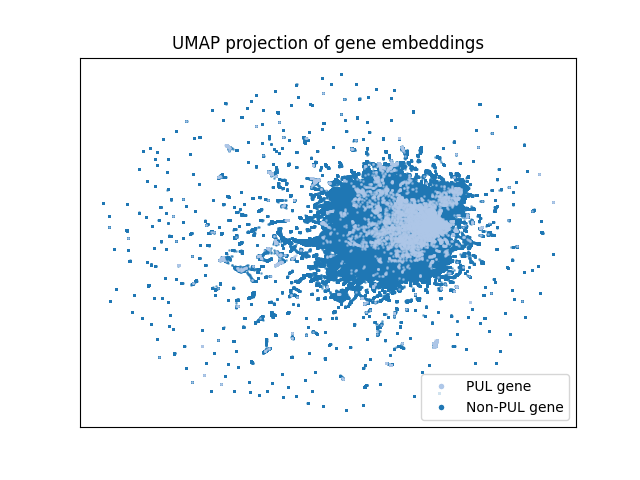
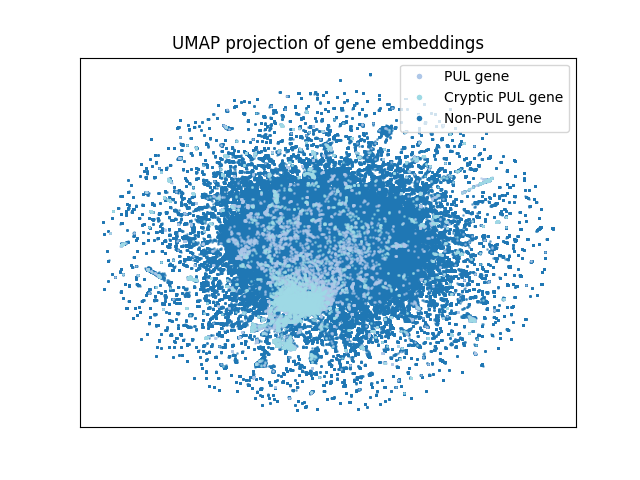
add more putative pul plots, adapt umap script

Changed region(s): [[0.1562, 0.125, 0.9062, 0.875], [0.625, 0.125, 0.6562, 0.1562]]

diff --git a/src/scripts/visualization/plot_predictions_in_genomes.py b/src/scripts/visualization/plot_predictions_in_genomes.py
@@ -71,10 +71,12 @@ def visualize_predictions_in_genome(evaluators, sequence_ids, threshold=None, mo
         plt.close()
 
 
-def visualize_genes(model_evaluator, sequence_id, start=0, end=10000):
+def visualize_genes(model_evaluators, sequence_id, start=0, end=10000, model_class="predictions"):
     cryptic_puls = polars.read_csv("src/data/data_collection/cryptic_puls_genes.tsv", separator='\t')
     # aggregate model predictions across folds
-    model_evaluator.aggregate_all_folds()
+    for model_evaluator in model_evaluators:
+        model_evaluator.aggregate_all_folds()
+    
     # genes from genbank file
     gb_file = f"src/data/genomes/genbank_genomes/{sequence_id}.gb"
     # write annotations df with cols: protein_id, start, end, product, note
@@ -103,85 +105,72 @@ def visualize_genes(model_evaluator, sequence_id, start=0, end=10000):
                 )
             features.append(graphic_feature)
 
-    fig, (ax1, ax2, ax3, ax4) = plt.subplots(
-        4, 1, figsize=(16, 6), sharex=True, gridspec_kw={"height_ratios": [8, 1, 1, 1]}
+    fig, axes = plt.subplots(
+        len(model_evaluators)+3, 1, figsize=(16, 6), sharex=True, gridspec_kw={"height_ratios": [8]+[1]*(len(model_evaluators)+2)}
     )
 
     # PLOT THE RECORD MAP
     graphic_record = GraphicRecord(sequence_length=length, features=features)
-    graphic_record.plot(ax=ax1, with_ruler=False, strand_in_label_threshold=4, max_label_length=55)
+    graphic_record.plot(ax=axes[0], with_ruler=False, strand_in_label_threshold=4, max_label_length=55)
 
-    # # PLOT THE PUL annotations
-    genes = (
-        model_evaluator.labeled_results[0]
-        .filter(
-            polars.col("sequence_id") == sequence_id,
-            polars.col("start") >= start,
-            polars.col("end") <= end,
+    # PLOT THE PUL annotations
+    genes_dfs = []
+    for model_evaluator in model_evaluators:
+        genes = (
+            model_evaluator.labeled_results[0]
+            .filter(
+                polars.col("sequence_id") == sequence_id,
+                polars.col("start") >= start,
+                polars.col("end") <= end,
+            )
+            .join(cryptic_puls.with_columns(polars.lit(True).alias("is_cryptic")), on="protein_id", how="left")
         )
-        .join(cryptic_puls.with_columns(polars.lit(True).alias("is_cryptic")), on="protein_id", how="left")
-    )
+        genes_dfs.append(genes)
 
-    predicted = []
     labels = []
     cryptic = []
     colors_tab10 = plt.cm.tab10.colors
     # top ax: called genes
-    for row in genes.iter_rows(named=True):
+    for row in genes_dfs[0].iter_rows(named=True):
         if row["is_PUL"]:
             labels.append((row["start"]-start, row["end"]-start, "Experimental"))
         # add cryptic puls
         if row["is_cryptic"]:
             cryptic.append((row["start"]-start, row["end"]-start, "Cryptic PULs"))
-        # add prediction probabilities
-        predicted.append((row["start"]-start, row["end"]-start, "Predicted", row["average_p"]))
 
-    for start_gene, end_gene, label, p in predicted:
-        ax2.fill_betweenx([0, 1], start_gene, end_gene, color=colors_tab10[0], alpha=min(0.1+p, 1))
     for start_gene, end_gene, label in labels:
-        ax3.fill_betweenx([0, 1], start_gene, end_gene, color=colors_tab10[1], alpha=1)
+        axes[-2].fill_betweenx([0, 1], start_gene, end_gene, color=colors_tab10[1], alpha=1)
     for start_gene, end_gene, label in cryptic:
-        ax4.fill_betweenx([0, 1], start_gene, end_gene, color=colors_tab10[2])
+        axes[-1].fill_betweenx([0, 1], start_gene, end_gene, color=colors_tab10[2])
 
 
-    ax2.set_ylim(0, 1)
-    ax3.set_ylim(0, 1)
-    ax4.set_ylim(0, 1)
-    ax2.set_yticks([0.45], [f"Predicted ({model_evaluator.model_name})"])
-    ax3.set_yticks([0.45], ["Experimental PULs"])
-    ax4.set_yticks([0.45], ["Cryptic PULs"])
+    # add prediction probabilities for every model
+    for i, genes in enumerate(genes_dfs):
+        predicted = []
+        for row in genes.iter_rows(named=True):
+            predicted.append((row["start"]-start, row["end"]-start, "Predicted", row["average_p"]))
+
+        for start_gene, end_gene, label, p in predicted:
+            axes[i+1].fill_betweenx([0, 1], start_gene, end_gene, color=colors_tab10[0], alpha=min(0.1+p, 1))
+
+    for i, ax in enumerate(axes):
+        if i == 0:
+            continue
+        if i > 0 and i <= len(model_evaluators):
+            ax.set_yticks([0.45], [f"{model_evaluators[i-1].model_name}"])
+
+        ax.set_ylim(0, 1)
+
+    axes[-2].set_yticks([0.45], ["Experimental PULs"])
+    axes[-1].set_yticks([0.45], ["Cryptic PULs"])
 
     tick_skips = round((end-start)*0.1)
-    ax4.set_xticks(ticks=range(0, end-start, tick_skips), labels=range(start, end, tick_skips))
-    ax4.set_xlabel("Location in genome (bp)")
+    axes[-1].set_xticks(ticks=range(0, end-start, tick_skips), labels=range(start, end, tick_skips))
+    axes[-1].set_xlabel("Location in genome (bp)")
     fig.suptitle(f"{record_definition} ({sequence_id})")
     fig.tight_layout()
-    fig.savefig(f"results/plots/high_confidence_predictions/{model_evaluator.model_name}_{sequence_id}_{start}_{end}.png")
+    fig.savefig(f"results/plots/high_confidence_predictions/{model_class}_{sequence_id}_{start}_{end}.png")
     plt.close()
-    return
-
-
-def find_high_confidence_predictions(model_evaluator):
-    model_evaluator.aggregate_all_folds()
-    model_evaluator.set_evaluation_data(0)
-    model_evaluator.recompute_predictions(0, threshold=0.15)
-    model_evaluator.labeled_results[0] = (
-        model_evaluator.labeled_results[0]
-        .filter(
-            ~polars.col("is_PUL"),
-            ~polars.col("is_PUL_pulpy"),
-            polars.col("sequence_id").str.starts_with("N"),
-            polars.col("average_p").ge(0.8)
-        )
-        .sort(by=["average_p"], descending=True)
-    )
-    print(model_evaluator.labeled_results[0].select(
-        "sequence_id",
-        "start",
-        "end",
-        "average_p"
-    )[:200])
-
     return
 
 
@@ -197,9 +186,22 @@ def compare_all_models(all_models, model_class):
         for model_name in all_models
     ]
 
-    # visualize predictions in genome for all models on some species
-    genome_ids = ["AE015928", "AP006841", "JH724241", "NZ_AP022379"]
-    visualize_predictions_in_genome(evaluators, genome_ids, 0.15)
+    # vulgatus
+#    visualize_genes(evaluators, "CP000139", start=2317000, end=2331000, model_class=model_class)
+    # fragilis
+#    visualize_genes(evaluators, "CR626927", start=354000, end=363000, model_class=model_class)
+    # clostridium 1 
+#    visualize_genes(evaluators, "NZ_CP010086", start=2883500, end=2896500, model_class=model_class)
+    # clostridium 2 
+    visualize_genes(evaluators, "NZ_CP010086", start=4787882, end=4803326, model_class=model_class)  
+    visualize_genes(evaluators, "NZ_CP010086", start=6310368, end=6318315, model_class=model_class)  # experimental PUL
+    # clostridium 3 
+#    visualize_genes(evaluators, "NZ_CP010086", start=5728000, end=5734500, model_class=model_class)
+    # dorei
+#    visualize_genes(evaluators, "NZ_CP046176", start=3858000, end=3879000, model_class=model_class)
+    # rosubria
+#    visualize_genes(evaluators, "NZ_LR027880", start=4277000, end=4297500, model_class=model_class)
+
     return
 
 
@@ -210,18 +212,8 @@ def main(args):
         compare_all_models(all_models, model_name)
         return
 
-    if model_name == 'logistic_regression':
-        all_models = ["genecat_zeroshot_pfam", "genecat_zeroshot_pfam_masked", "genecat_zeroshot_cazy", "genecat_zeroshot_cazy_masked", "esmc", "esmc_masked", "bacformer", "bacformer_masked"]
-        compare_all_models(all_models, model_name)
-        return
-
-    if model_name == "masked":
-        all_models = ["genecat_zeroshot_pfam_masked", "genecat_zeroshot_cazy_masked", "esmc_masked", "bacformer_masked"]
-        compare_all_models(all_models, model_name)
-        return
-
     if model_name == "selected":
-        all_models = ["gecco_pfam", "genecat_zeroshot_cazy_masked", "genecat_finetuned_cazy", "esmc_masked", "bacformer_masked"]
+        all_models = ["gecco_pfam", "genecat_finetuned_cazy_masked", "bacformer_masked"]
         compare_all_models(all_models, model_name)
         return
 
@@ -233,12 +225,7 @@ def main(args):
             k=5,
             output_path=f"results/plots/{model_name}"
         )
-        # find_high_confidence_predictions(model_evaluator)
-#        visualize_genes(model_evaluator, "RHLG01000001", start=108800, end=118000)
-#        visualize_genes(model_evaluator, "NZ_CP028092", start=2037500, end=2060500)
-#        visualize_genes(model_evaluator, "NZ_KI912107", start=4162000, end=4182000)
-#        visualize_genes(model_evaluator, "NZ_CP074436", start=4221500, end=4245000)
-
+        model_evaluator = [model_evaluator]
         # vulgatus
         visualize_genes(model_evaluator, "CP000139", start=2317000, end=2331000)
         # fragilis

diff --git a/src/scripts/visualization/embeddings_umap.py b/src/scripts/visualization/embeddings_umap.py
@@ -3,35 +3,89 @@ import numpy as np
 import matplotlib.pyplot as plt
 import umap
 
-embeddings = (
-    polars.read_parquet("src/data/results/genecat/fold_data/fold_0_data.parquet")
-    .select("embeddings", "label")
-    .sort("label")
-)
-# convert to matrix
-embedding_matrix = np.stack(embeddings["embeddings"].to_list())
-# fit umap
-reducer = umap.UMAP()
-embedding_2d = reducer.fit_transform(embedding_matrix)
-x = embedding_2d[:, 0]
-y = embedding_2d[:, 1]
-reduced_embeddings = polars.DataFrame({
-    "x": x,
-    "y": y,
-    "label": embeddings["label"]
-})
+def plot_embeddings_umap(embeddings_path="src/data/results/genecat_zeroshot_cazy/fold_data/fold_0_data.parquet", save_path="results/plots/embedding_umap.png", model_name="genecat_zeroshot_cazy"):
+    cryptic_puls = polars.read_csv("src/data/data_collection/cryptic_puls_genes.tsv", separator="\t").with_columns(polars.lit(True).alias("cryptic"))
+    embeddings = (
+        polars.read_parquet(embeddings_path)
+        .select("embedding", "label", "protein_id")
+        .join(
+            cryptic_puls,
+            on="protein_id",
+            how="left"
+        )
+        .sort("label")
+    )
+    # convert to matrix
+    embedding_matrix = np.stack(embeddings["embedding"].to_list())
+    # fit umap
+    print("Running UMAP...")
+    reducer = umap.UMAP(
+        metric="cosine",
+        n_epochs=150,
+        n_neighbors=10,
+        verbose=True,
+        n_jobs=-1
+    )
+    embedding_2d = reducer.fit_transform(embedding_matrix.astype("float32"))
+    x = embedding_2d[:, 0]
+    y = embedding_2d[:, 1]
+    reduced_embeddings = polars.DataFrame({
+        "x": x,
+        "y": y,
+        "label": embeddings["label"],
+        "cryptic": embeddings["cryptic"]
+    })
 
-colors = plt.cm.tab20.colors
-for i, label in enumerate([False, True]):
-    embedding_2d = reduced_embeddings.filter(polars.col("label") == label)
-    plt.scatter(embedding_2d[:, 0], embedding_2d[:, 1], alpha=0.5, s=1, color=colors[i])
+    print("Plotting...")
+    colors = plt.cm.tab10.colors
+    for i, label in enumerate([False, True]):
+        embedding_2d = reduced_embeddings.filter(polars.col("label") == label)
+        plt.scatter(embedding_2d[:, 0], embedding_2d[:, 1], alpha=0.5, s=1, color=colors[i])
+        # add cryptic PULs
+        if label == True:
+            embedding_2d = reduced_embeddings.filter(polars.col("cryptic") == label)
+            plt.scatter(embedding_2d[:, 0], embedding_2d[:, 1], alpha=0.35, s=1, color=colors[2])
 
-plt.legend(handles=[
-    plt.Line2D([0], [0], marker='o', color='w', markerfacecolor=colors[1], markersize=5, label='PUL gene'),
-    plt.Line2D([0], [0], marker='o', color='w', markerfacecolor=colors[0], markersize=5, label='Non-PUL gene')
-])
-plt.xticks([])
-plt.yticks([])
-plt.title("UMAP projection of gene embeddings")
-plt.savefig("src/results/plots/genecat/embedding_umap.png")
-plt.clf()
+
+    plt.legend(handles=[
+        plt.Line2D([0], [0], marker='o', color='w', markerfacecolor=colors[1], markersize=5, label='PUL gene'),
+        plt.Line2D([0], [0], marker='o', color='w', markerfacecolor=colors[2], markersize=5, label='Cryptic PUL gene'),
+        plt.Line2D([0], [0], marker='o', color='w', markerfacecolor=colors[0], markersize=5, label='Non-PUL gene')
+    ])
+    plt.xlabel("UMAP 1")
+    plt.ylabel("UMAP 2")
+    plt.xticks([])
+    plt.yticks([])
+    plt.title(f"UMAP projection of {model_name} embeddings")
+    plt.tight_layout()
+    plt.savefig(save_path)
+    plt.close()
+
+
+if __name__ == "__main__":
+    # genecat zeroshot
+    plot_embeddings_umap(
+        save_path="results/plots/umap_genecat_zeroshot_cazy.png",
+        model_name="GeneCAT Zeroshot (Pfam+CAZy)"
+    )
+
+    # genecat finetuned
+    plot_embeddings_umap(
+        embeddings_path="src/data/results/genecat_finetuned_cazy_masked/embeddings/fold_0_data.parquet", 
+        save_path="results/plots/umap_genecat_finetuned_cazy.png", 
+        model_name="GeneCAT Finetuned (Pfam+CAZy)"
+    )
+
+    # bacformer
+    plot_embeddings_umap(
+        embeddings_path="src/data/results/bacformer/fold_data/fold_0_data.parquet",
+        save_path="results/plots/umap_bacformer.png",
+        model_name="Bacformer"
+    )
+
+    # ESM-C
+    plot_embeddings_umap(
+        embeddings_path="src/data/results/esmc/fold_data/fold_0_data.parquet",
+        save_path="results/plots/umap_esmc.png",
+        model_name="ESM-C"
+    )
